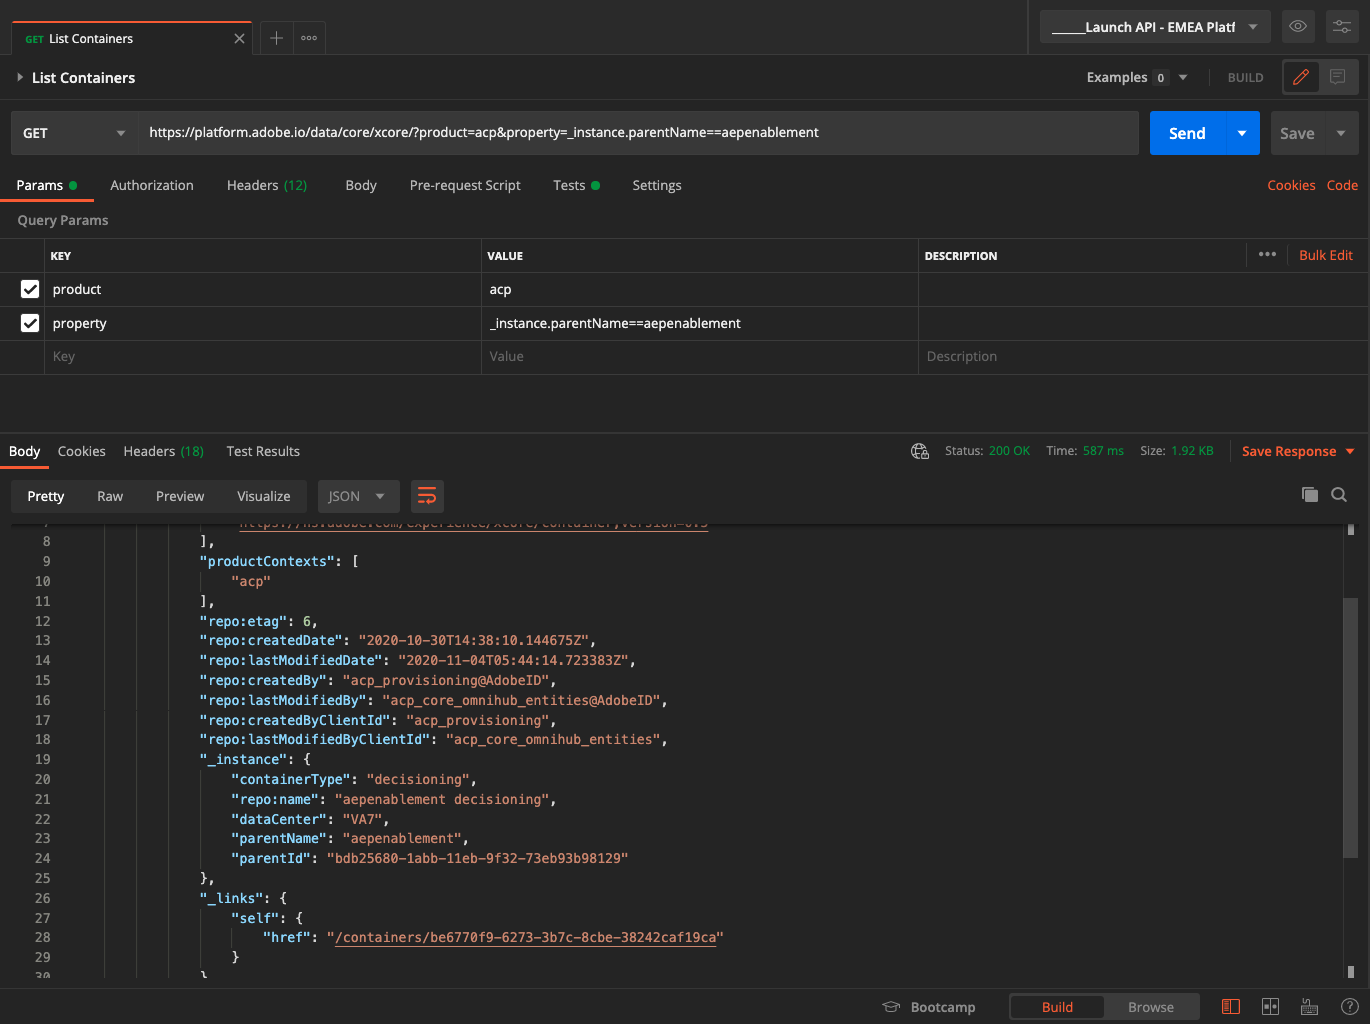
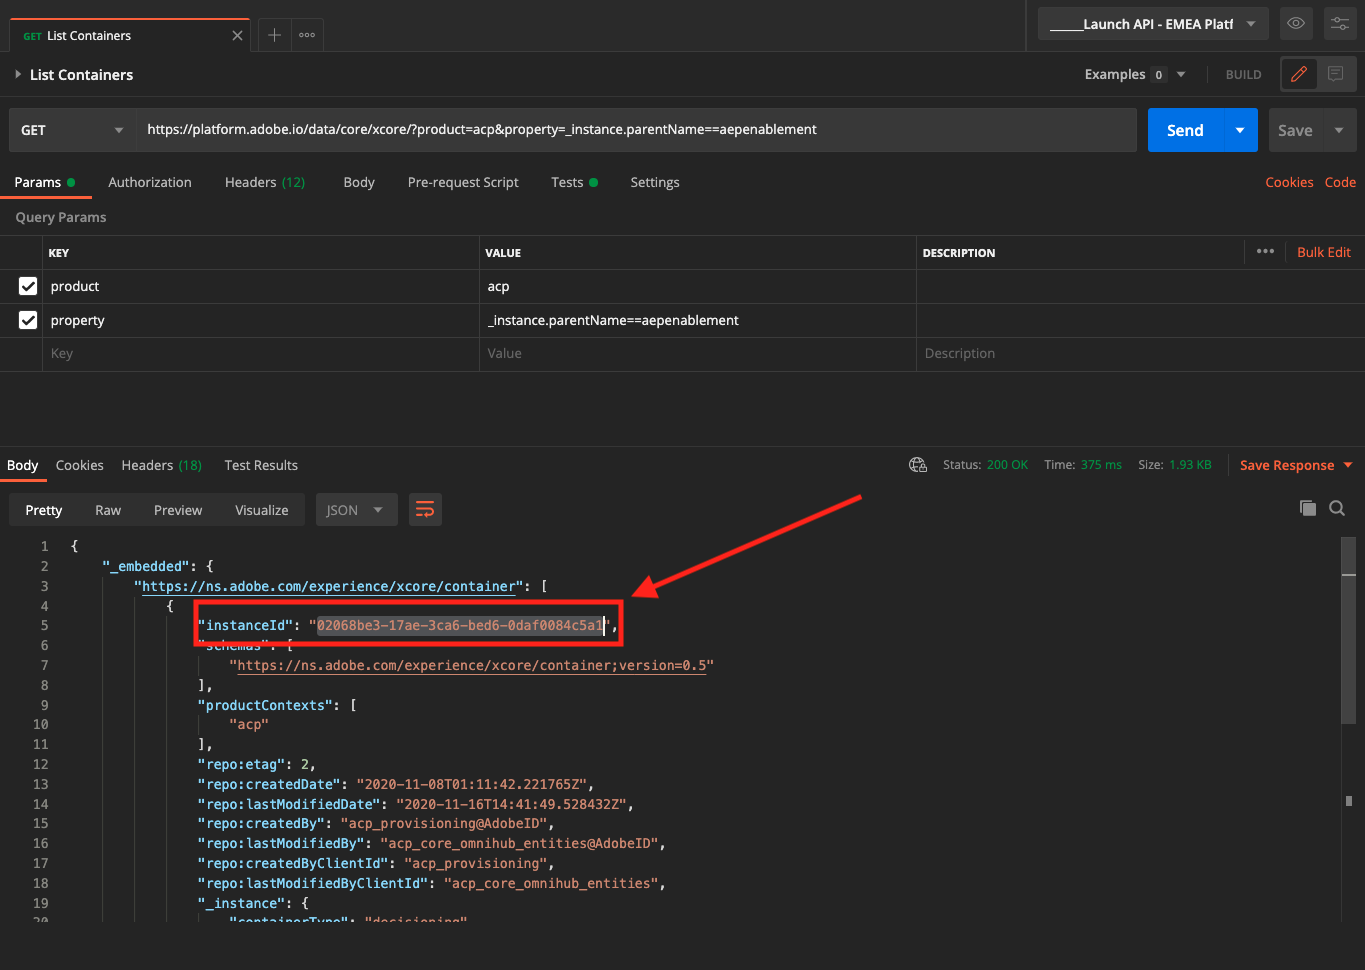
update to module 14

diff --git a/help/tutorial-comprehensive-technical/modules/module14/ex5.md b/help/tutorial-comprehensive-technical/modules/module14/ex5.md
@@ -18,19 +18,19 @@ Download [this Postman Collection for Offer Decisioning](./../../assets/postman/
 
 You now have this file on your desktop:
 
-- \_Module 14- Decisioning Service.postman_collection.json
+- [!UICONTROL _Module 14- Decisioning Service.postman_collection.json]
 
 In [Exercise 3.3.3 - Postman authentication to Adobe I/O](./../../modules/module3/ex3.md) you installed Postman. You'll need to use Postman again for this exercise.
 
-Open Postman. Click **Import**.
+Open Postman. Click **[!UICONTROL Import]**.
 
 ![Adobe I/O New Integration](./images/postmanui.png)
 
-Click on **Upload files**.
+Click on **[!UICONTROL Upload files]**.
 
 ![Adobe I/O New Integration](./images/pm1.png)
 
-Select the file **_Module 14- Decisioning Service.postman_collection.json** and click **Open**.
+Select the file **[!UICONTROL _Module 14- Decisioning Service.postman_collection.json]** and click **[!UICONTROL Open]**.
 
 ![Adobe I/O New Integration](./images/pm2.png)
 
@@ -40,23 +40,27 @@ You'll then have this collection available in Postman.
 
 You now have everything you need in Postman to start interacting with Adobe Experience Platform through the APIs.
 
-Click to open the request **GET - List Containers**. 
+### 14.5.1.1 List Containers
 
-Under **Params**, you'll see this: 
+Click to open the request **[!UICONTROL GET - List Containers]**. 
+
+Under **[!UICONTROL Params]**, you'll see this: 
 
 - property: `_instance.parentName==aepenablement`
 
-In that parameter, **aepenablement** is the name of the sandbox that is used in Adobe Experience Platform. The sandbox you should use is --aepSandboxId--. Replace the text **aepenablement** by --aepSandboxId--.
+In that parameter, **[!UICONTROL aepenablement]** is the name of the sandbox that is used in Adobe Experience Platform. The sandbox you should use is `--aepSandboxId--`. Replace the text **[!UICONTROL aepenablement]** by `--aepSandboxId--`.
 
-After replacing the sandbox name, click **Send**.
+After replacing the sandbox name, click **[!UICONTROL Send]**.
 
 ![OD API](./images/api2.png)
 
-This is the response, which shows the offer container for the sandbox that you specified.
+This is the response, which shows the offer container for the sandbox that you specified. Please copy the **[!UICONTROL container instanceId]** as indicated below and write it down in a text file on your computer. You'll need to use this **[!UICONTROL container instanceId]** for the next exercise!
 
 ![OD API](./images/api3.png)
 
-Click to open the request **GET - List Placements**. Click **Send**.
+### 14.5.1.2 List Placements
+
+Click to open the request **[!UICONTROL GET - List Placements]**. Click **[!UICONTROL Send]**.
 
 ![OD API](./images/api4.png)
 
@@ -64,7 +68,9 @@ You're now seeing all available placements in your offer container. The placemen
 
 ![OD API](./images/api5.png)
 
-Click to open the request **GET - List Decision Rules**. Click **Send**.
+### 14.5.1.3 List Decision Rules
+
+Click to open the request **[!UICONTROL GET - List Decision Rules]**. Click **[!UICONTROL Send]**.
 
 ![OD API](./images/api6.png)
 
@@ -72,7 +78,9 @@ In the response, you'll see the Decision Rules that you defined in the Adobe Exp
 
 ![OD API](./images/api7.png)
 
-Click to open the request **GET - List Personalized Offers**. Click **Send**.
+### 14.5.1.4 List Personalized Offers
+
+Click to open the request **[!UICONTROL GET - List Personalized Offers]**. Click **[!UICONTROL Send]**.
 
 ![OD API](./images/api8.png)
 
@@ -80,7 +88,9 @@ In the response, you'll see the Personalized Offers that you defined in the Adob
 
 ![OD API](./images/api9.png)
 
-Click to open the request **GET - List Fallback Offers**. Click **Send**.
+### 14.5.1.5 List Fallback Offers
+
+Click to open the request **[!UICONTROL GET - List Fallback Offers]**. Click **[!UICONTROL Send]**.
 
 ![OD API](./images/api10.png)
 
@@ -88,7 +98,9 @@ In the response, you'll see the Fallback Offer that you defined in the Adobe Exp
 
 ![OD API](./images/api11.png)
 
-Click to open the request **GET - List Collections**.
+### 14.5.1.6 List Collections
+
+Click to open the request **[!UICONTROL GET - List Collections]**.
 
 ![OD API](./images/api12.png)
 
@@ -96,13 +108,15 @@ In the response, you'll see the Collection that you defined in the Adobe Experie
 
 ![OD API](./images/api13.png)
 
-Click to open the request **GET - List Activities**.
+### 14.5.1.7 List Activities
+
+Click to open the request **[!UICONTROL GET - List Activities]**.
 
 ![OD API](./images/api14.png)
 
 In the response, you'll see the Activity that you defined in the Adobe Experience Platform UI in [Exercise 14.2.4](./ex2.md).
 
-In order to send the next API requests, you now need to search for and then copy the field **@id** for your Offer Activity ID. 
+In order to send the next API requests, you now need to search for and then copy the field **[!UICONTROL @id]** for your Offer Activity ID. 
 
 ![OD API](./images/api15.png)
 
@@ -114,11 +128,13 @@ Next, edit your Postman environment.
 
 ![OD API](./images/api16.png)
 
-Create the variable **OFFER_ACTIVITY_ID** and assign the value of your Offer Activity ID to it. Click **Update** to save your changes.
+Create the variable **[!UICONTROL OFFER_ACTIVITY_ID]** and assign the value of your Offer Activity ID to it. Click **[!UICONTROL Update]** to save your changes.
 
 ![OD API](./images/api17.png)
 
-Click to open the request **GET - Get Offers by Activity Id**. 
+### 14.5.1.8 Get Offers by Activity Id
+
+Click to open the request **[!UICONTROL GET - Get Offers by Activity Id]**. 
 
 ![OD API](./images/api18.png)
 
@@ -126,11 +142,11 @@ In the response, you'll then see the offers that are part of your activity.
 
 ![OD API](./images/api19.png)
 
-Click to open the request **POST - Get Offers for Customer Profile**. With this request, you're able to enter for instance, the email address of a customer to retrieve the offer that should be presented to that customer.
+Click to open the request **[!UICONTROL POST - Get Offers for Customer Profile]**. With this request, you're able to enter for instance, the email address of a customer to retrieve the offer that should be presented to that customer.
 
 ![OD API](./images/api20.png)
 
-Go to **Body** and enter the email address of the customer for whom you'd like to request an offer. Click **Send**.
+Go to **[!UICONTROL Body]** and enter the email address of the customer for whom you'd like to request an offer. Click **[!UICONTROL Send]**.
 
 ![OD API](./images/api21.png)
 
@@ -138,19 +154,21 @@ You'll then get the response from Offer Decisioning with the id's of the persona
 
 ![OD API](./images/api22.png)
 
-Click to open the request **POST - Get Detailed Offers for Customer Profile**. This request is similar to the previous one, but will actually return details like image URLs, text etc.
+### 14.5.1.9 Get Detailed Offers for Customer Profile
+
+Click to open the request **[!UICONTROL POST - Get Detailed Offers for Customer Profile]**. This request is similar to the previous one, but will actually return details like image URLs, text etc.
 
 ![OD API](./images/api23.png)
 
-For this request, similar to the previous exercise which has similar requirements, you need to provide the values for **xdm:placementId** and **xdm:activityId** to retrieve the specific offer details for a customer.
+For this request, similar to the previous exercise which has similar requirements, you need to provide the values for **[!UICONTROL xdm:placementId]** and **[!UICONTROL xdm:activityId]** to retrieve the specific offer details for a customer.
 
-The field **xdm:activityId** is already populated as the result of a previous request you sent, after which you stored the key **OFFER_ACTIVITY_ID** in your Postman environment.
+The field **[!UICONTROL xdm:activityId]** is already populated as the result of a previous request you sent, after which you stored the key **[!UICONTROL OFFER_ACTIVITY_ID]** in your Postman environment.
 
-The field **xdm:placementId** needs to be filled out. You can retrieve that in the Adobe Experience Platform UI, as indicated below. In the below example, you can see the placementId for the placement **Web - Image**.
+The field **[!UICONTROL xdm:placementId]** needs to be filled out. You can retrieve that in the Adobe Experience Platform UI, as indicated below. In the below example, you can see the placementId for the placement **[!UICONTROL Web - Image]**.
 
 ![OD API](./images/placementid.png)
 
-Go to **Body** and enter the email address of the customer for whom you'd like to request an offer. Click **Send**.
+Go to **[!UICONTROL Body]** and enter the email address of the customer for whom you'd like to request an offer. Click **[!UICONTROL Send]**.
 
 ![OD API](./images/api24.png)
 
@@ -158,9 +176,136 @@ Finally, you'll then see the result of what kind of personalized offer and what 
 
 ![OD API](./images/api25.png)
 
-
 ## 14.5.2 Use the Offer Decisioning API to showcase offers on Xray
 
+In the previous exercise you used the API to retrieve information from Adobe Experience Platform and Offer Decisioning. Let's now have a look at a practical example.
+
+You've seen the Xray panel on the website before. The Xray panel is using the Adobe Experience Platform API's to retrieve information on every payload. Let's now add the response from the Offer Decisioning API on Xray.
+
+In order to make this possible, you'll need three values:
+
+- [!UICONTROL Offer Decisioning Container ID]
+- [!UICONTROL Offer Decisioning Placement ID]
+- [!UICONTROL Offer Decisioning Activity ID]
+
+Where can you find these values?
+
+### 14.5.2.1 [!UICONTROL Offer Decisioning Container ID]
+
+The container instaceId was returned by the first API call you sent as part of this exercise. Scroll back up untill you see the **[!UICONTROL List Containers]** step. Follow the instructions there to collect the container instanceId. 
+
+The format of the container instanceId looks like this: **[!UICONTROL 02068be3-17ae-3ca6-bed6-0daf0084c5a1]** and it was part of the output of the **[!UICONTROL List Containers]** request:
+
+![OD API](./images/api3.png)
+
+### 14.5.2.2 [!UICONTROL Offer Decisioning Placement ID]
+
+The [!UICONTROL Offer Placement ID] identifies the location and type of asset that is required. For instance, the hero image on the Luma website homepage corresponds with the [!UICONTROL Offer Placement ID] for [!UICONTROL Web - Image].
+
+![WebSDK](./images/launch5.png)
+
+To find the [!UICONTROL Offer Placement ID] for [!UICONTROL Web - Image] go to [https://platform.adobe.com](https://platform.adobe.com). 
+
+Next, go to [!UICONTROL Offers] and then to [!UICONTROL Placements]. Click the [!UICONTROL Web - Image] placement to see its details.
+
+![WebSDK](./images/launch6.png)
+
+As you can see in the above image, in this example the [!UICONTROL Offer Placement ID] is `xcore:offer-placement:127075c49bb0df30`. Write down the [!UICONTROL Offer Placement ID] for your placement for [!UICONTROL Web - Image] as you'll need it in the next exercise.
+
+### 14.5.2.3 [!UICONTROL Offer Decisioning Activity ID]
+
+The [!UICONTROL Offer Activity ID] identifies which combination of Personalized Offers and Fallback Offer you'd like to use. In the previous exercise, you created your own [!UICONTROL Offer Activity] and named it **[!UICONTROL ldap - Luma Offer Activity]**.
+
+To find the [!UICONTROL Offer Activity ID] for your **[!UICONTROL ldap - Luma Offer Activity]**, go to [https://platform.adobe.com](https://platform.adobe.com). 
+
+Next, go to [!UICONTROL Activities] and click to select your [!UICONTROL Offer Activity], which is named **[!UICONTROL ldap - Luma Offer Activity]**.
+
+![WebSDK](./images/launch7.png)
+
+As you can see in the above image, in this example the [!UICONTROL Offer Activity ID] is `xcore:offer-activity:1272b0c7aee6156b`. Write down the [!UICONTROL Offer Activity ID] for your activity [!UICONTROL ldap - Luma Offer Activity] as you'll need it in the next exercise.
+
+### 14.5.2.4 Update your Enablement Configuration ID
+
+Before you can test your end-to-end demonstration, you'll need to update your Configuration ID settings and update the fields for **[!UICONTROL Offer Decisioning Container ID]**, **[!UICONTROL Offer Decisioning Placement ID]** and **[!UICONTROL Offer Decisioning Activity ID]** on the **Update Configuration ID** page of the demo website.
+
+Go to [https://public.aepdemo.net/admin_configuration_update.html](https://public.aepdemo.net/admin_configuration_update.html).
+
+You'll then see this:
+
+![Launch Setup](./images/cfgid1.png)
+
+Enter your Configuration ID and then click **[!UICONTROL Load Configuration]**. You'll see your Configuration ID values being loaded.
+
+![Launch Setup](./images/cfgid2.png)
+
+Scroll down until you see the fields **[!UICONTROL Offer Decisioning Container ID]**, **[!UICONTROL Offer Decisioning Placement ID]** and **[!UICONTROL Offer Decisioning Activity ID]**.
+
+![Launch Setup](./images/cfgid2a.png)
+
+You now need to enter the values for these three fields. You collected these values a couple of minutes ago in the previous step.
+
+![Launch Setup](./images/cfgid4.png)
+  
+Next, on the Update Configuration ID page, scroll down and click **[!UICONTROLUpdate Configuration ID]**.
+
+![Launch Setup](./images/cfgid5.png)
+
+After this change, the Offer Decisioning API response will be showcased on Xray!
+
+## 14.5.2 Text Xray
+
+### 14.5.2.1 Load website and brand
+
+Open a new, clean incognito browser window and go to [https://public.aepdemo.net](https://public.aepdemo.net). 
+
+You'll then see this. 
+
+![Launch Setup](./images/demo1.png)
+
+Enter your Configuration ID and click **Load Configuration**. Your configuration is then loaded.
+
+![Launch Setup](./images/demo2.png)
+
+Scroll down and click **Save Configuration**.
+
+![Launch Setup](./images/cfgid5.png)
+
+You'll then be redirected to the Admin homepage. Go to **Select LDAP**. Select your LDAP and click **Save**.
+
+![Launch Setup](./images/demo5.png)
+
+You'll then be redirected to the Admin homepage. Go to **Select Brand** and select the brand **Luma**, click **Save**.
+
+![Launch Setup](./images/demo7.png)
+
+You'll then be redirected to the Admin homepage. Click the **Luma** logo.
+
+![Launch Setup](./images/demo8.png)
+
+### 14.5.2.2 Customer browses the website
+
+You'll then see the Luma homepage. You should immediately see your hero image change, and you should see the Fallback Offer that was defined as part of your Offer Activity, just like in the previous exercise. Additionally, when you open the Xray panel and have a look at the Offer Decisioning panel, you'll now also see the applicable offer being displayed there.
+
+It's important to understand the difference:
+
+- the hero image in the website is being delivered by Web SDK, thanks to the integration between Web SDK, Edge and Offer Decisioning
+- the Xray panel, and the offer being shown on Xray, is made possible by consuming the Offer Decisioning APIs
+
+This means that there are two ways of getting the offer in the context where it is needed, which offers you a lot of flexibility!
+
+![Launch Setup](./images/xray1.png)
+
+Go to the page **Login/Register**. Fill out the fields and then click **CREATE ACCOUNT** to create your account.
+
+![Launch Setup](./images/xray1a.png)
+
+As part of the configuration of your Personalized Offers, you defined offers for either male customers or female customers. Based on the gender selection you made on the **Login/Register** page, you'll now see another offer on the Luma homepage. This time it isn't a Fallback Offer anymore, but instead a Personalized Offer. You can now again see the same offer on the hero image and on Xray.
+
+In this example, the gender selection is male. For male customers, the highest priority offer is the offer for the Zeppelin Yoga Pant.
+
+![Launch Setup](./images/xray2.png)
+
+Thanks to the integration between Web SDK and Adobe Experience Platform, offers can be delivered in a nice and easy way, with a limited amount of configuration.
 
 You've now completed this exercise.
 

diff --git a/help/tutorial-comprehensive-technical/modules/module14/ex3.md b/help/tutorial-comprehensive-technical/modules/module14/ex3.md
@@ -90,7 +90,7 @@ For every request sent to the Edge and to Adobe Experience Platform, it's possib
 
 Let's first have a look where you can find those two elements.
 
-### Retrieve your [!UICONTROL Offer Placement ID]
+### 14.3.2.1 Retrieve your [!UICONTROL Offer Placement ID]
 
 The [!UICONTROL Offer Placement ID] identifies the location and type of asset that is required. For instance, the hero image on the Luma website homepage corresponds with the [!UICONTROL Offer Placement ID] for [!UICONTROL Web - Image].
 
@@ -104,7 +104,7 @@ Next, go to [!UICONTROL Offers] and then to [!UICONTROL Placements]. Click the [
 
 As you can see in the above image, in this example the [!UICONTROL Offer Placement ID] is `xcore:offer-placement:127075c49bb0df30`. Write down the [!UICONTROL Offer Placement ID] for your placement for [!UICONTROL Web - Image] as you'll need it in the next exercise.
 
-### Retrieve your [!UICONTROL Offer Activity ID]
+### 14.3.2.2 Retrieve your [!UICONTROL Offer Activity ID]
 
 The [!UICONTROL Offer Activity ID] identifies which combination of Personalized Offers and Fallback Offer you'd like to use. In the previous exercise, you created your own [!UICONTROL Offer Activity] and named it **[!UICONTROL ldap - Luma Offer Activity]**.
 
@@ -118,7 +118,7 @@ As you can see in the above image, in this example the [!UICONTROL Offer Activit
 
 Now that you've retrieved the two elements you need to create a **[!UICONTROL Decision Scopes]**, you can continue with the next step, which involves encoding the decision scope.
 
-### BASE64 Encoding
+### 14.3.2.3 BASE64 Encoding
 
 The **[!UICONTROL Decision Scope]** you need to enter is a BASE64-encoded string. This BASE64-encoded string is a combination of the [!UICONTROL Offer Placement ID] and the [!UICONTROL Offer Activity ID], as you can see below. 
 
@@ -135,7 +135,7 @@ The **[!UICONTROL Decision Scope]** can be generated in two ways:
 
   ![WebSDK](./images/launch8.png)
 
-- Retrieve the BASE64 encoded string from Adobe Experience Platform. To do so, go to [https://platform.adobe.com](https://platform.adobe.com). Next, go to [!UICONTROL Activities] and click to ope, your [!UICONTROL Offer Activity], which is named **[!UICONTROL ldap - Luma Offer Activity]**.
+- Retrieve the BASE64 encoded string from Adobe Experience Platform. To do so, go to [https://platform.adobe.com](https://platform.adobe.com). Next, go to [!UICONTROL Activities] and click to open your [!UICONTROL Offer Activity], which is named **[!UICONTROL ldap - Luma Offer Activity]**.
 
   ![WebSDK](./images/launch9.png)
   
@@ -183,7 +183,7 @@ As the name for your rule, use **Homepage - Decision Received**.
 
 ![WebSDK](./images/decrec2.png)
 
-### Event
+### 14.3.3.1 Event
 
 Click **[!UICONTROL + Add]** under **[!UICONTROL EVENTS]** to add a new event.
 
@@ -200,7 +200,7 @@ Click **[!UICONTROL Keep Changes]**.
 
 ![WebSDK](./images/keepchanges.png)
 
-### Condition
+### 14.3.3.2 Condition
 
 You'll now see this. Click **[!UICONTROL + Add]** under **[!UICONTROL CONDITIONS]** to add a new condition.
 
@@ -223,7 +223,7 @@ Click **[!UICONTROL Keep Changes]**.
 
 ![WebSDK](./images/keepchanges.png)
 
-### Action
+### 14.3.3.3 Action
 
 You'll then see this. Click **[!UICONTROL + Add]** under **[!UICONTROL ACTIONS]** to add a new action.
 
@@ -278,7 +278,7 @@ And instead of the default Luma hero image, you will now see an offer like this 
 
 ![WebSDK](./images/decrec10.png)
 
-Don't test it yet. In the next exercise, you'll go through a step-by-step demo scenario.
+In the next exercise, you'll go through a step-by-step demo scenario.
 
 Next Step: [14.4 Test your Offer Activity using the demo website](./ex4.md)
 
